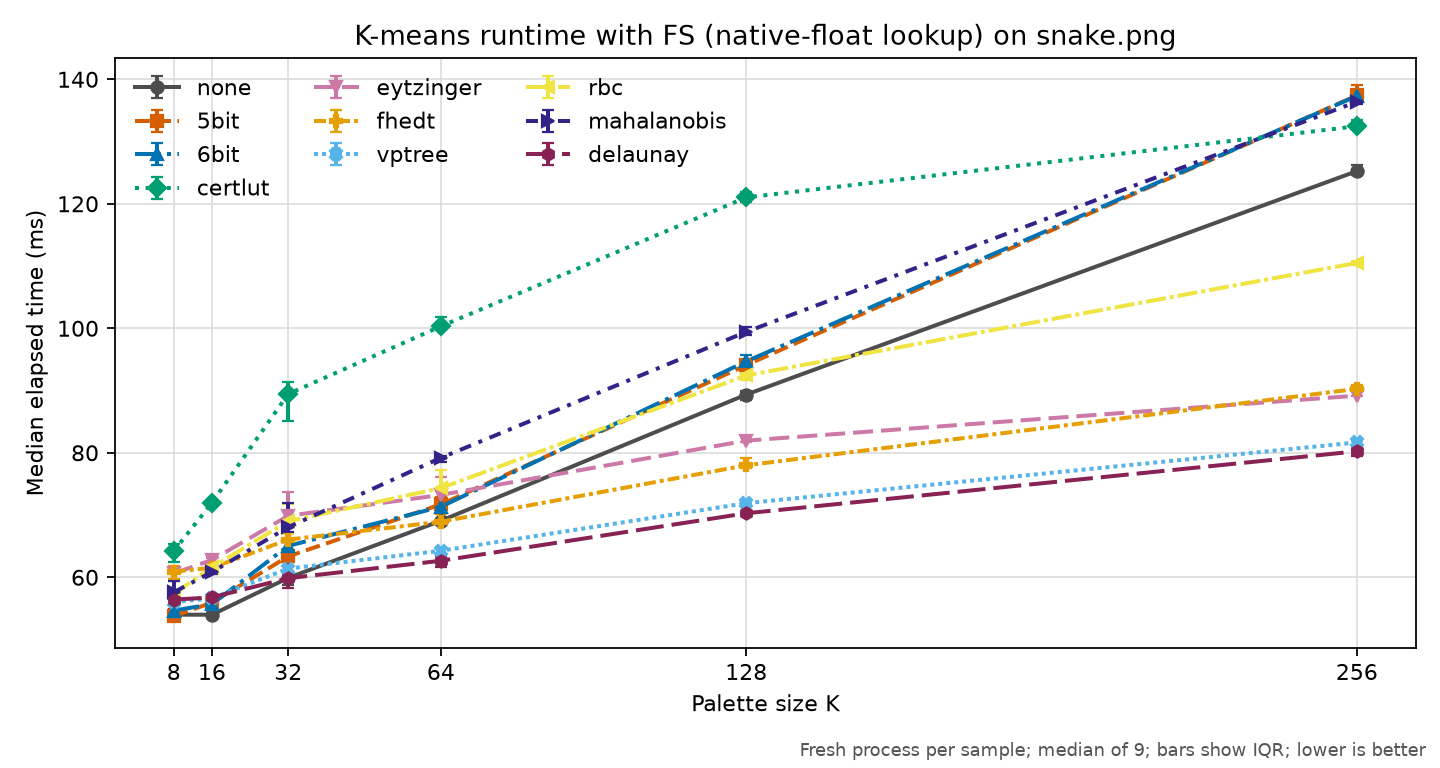
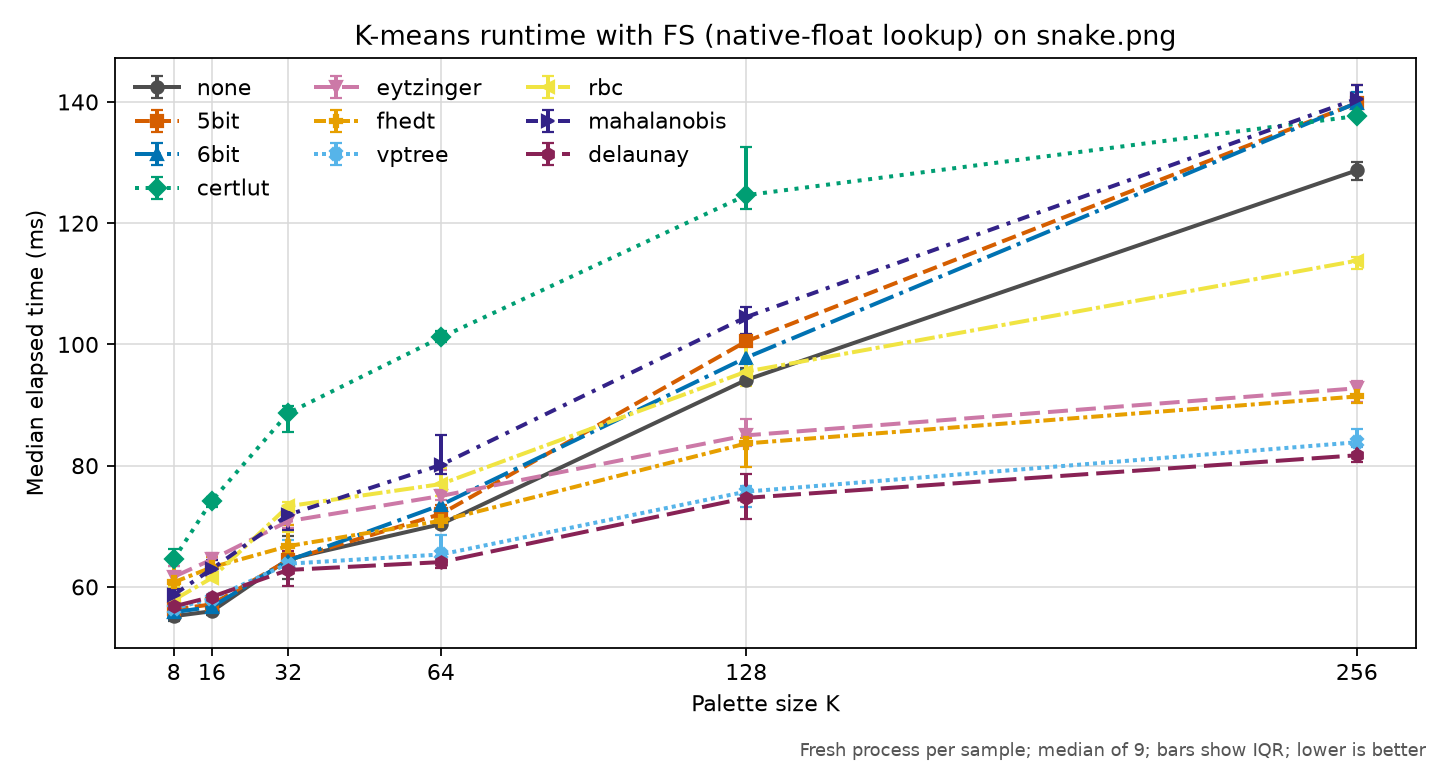
docs: refresh lookup measurements after cold batching

diff --git a/docs/encoder/palette-application/lookup-policy/measurements/README.md b/docs/encoder/palette-application/lookup-policy/measurements/README.md
@@ -22,7 +22,7 @@ The ten-policy sweeps resolve to planner `work=rgb888`, but their actual lookup 
 
 ## Conditions
 
-The ten-policy quality and single-thread speed sweeps were measured on 2026-10-22 JST from tracked-clean revision `5b1da5b55c55fb450bd4548a87579140bae893b8`. The host was an Apple M3 Max with 36 GiB RAM, macOS 27.0.1 arm64, and Apple Clang 21.0.0. Autotools used `CFLAGS=-O3`, libpng, and LCMS2; the manifests retain the complete configuration and executable hashes. The input was [`images/snake.png`](../../../../../images/snake.png), at 600 by 450 pixels. The broad curves use `K = 8, 16, 32, 64, 128, 256`; both focused curves use steps of 16 from 128 through 256.
+The ten-policy quality and single-thread speed sweeps were measured on 2026-10-22 JST from tracked-clean revision `26a31afef67dbbdd9b45d2b0f115ba099b51bdb6`. The host was an Apple M3 Max with 36 GiB RAM, macOS 27.0.1 arm64, and Apple Clang 21.0.0. Autotools used `CFLAGS=-O3`, libpng, and LCMS2; the manifests retain the complete configuration and executable hashes. The input was [`images/snake.png`](../../../../../images/snake.png), at 600 by 450 pixels. The broad curves use `K = 8, 16, 32, 64, 128, 256`; both focused curves use steps of 16 from 128 through 256.
 
 The shared-instance and Metal artifacts retain their 2026-09-06 revision `f2c138d8f` and macOS 26.5.1 conditions. Their sections describe the historical evidence and its limits. The four-policy Delaunay study has its own snapshot and protocol below. Compare times within each study; do not splice their samples into the ten-policy curves.
 
@@ -87,6 +87,8 @@ img2sixel \
 ```
 
 `lsqa` compares each SIXEL stream with the original image and reports its existing `Δ E00_mean`, `Δ Chroma_mean`, and MS-SSIM metrics. The runner removes inherited `SIXEL_*` variables from both programs, then sets `SIXEL_LOADER_CMS_ENGINE=none` for both. Encoder input is pinned to `libpng`; assessment settings stay identical across policies. The K-means seed is one, and the diffusion control changes only `none` to `fs`.
+
+The recorded build leaves `FLOAT_LOOKUP_CFLAGS` empty. Delaunay's byte cold batches use NEON, while its native-float K-means sweep retains scalar misses under the [float SIMD gate](../delaunay.md#method); this sweep does not measure the optional float batch kernel.
 
 Untimed probes at `K = 256` check all ten consumer classes for K-means with both diffusion settings and for Heckbert without diffusion. The manifests retain these probes. In this build, the K-means `5bit` and `6bit` measurements exercise their native-float exhaustive fallbacks; only the Heckbert quality curves exercise their byte-addressed caches. `-Wgamma` selects gamma-RGB application coordinates without forcing a byte palette.
 
@@ -191,7 +193,7 @@ At `K = 256`, `eytzinger` and `vptree` have mean Delta E00 values of 2.068099 an
 
 ### End-to-end speed
 
-The speed figure compares native-float K-means lookup, including palette construction and SIXEL encoding. Delaunay and VP-tree have nearly equal medians at `K = 256`.
+The speed figure compares native-float K-means lookup, including palette construction and SIXEL encoding. Delaunay and VP-tree are compared under the same conditions at each palette size.
 
 ![Median end-to-end runtime for each lookup policy with native-float K-means](lookup-policy-speed.png)
 
@@ -201,20 +203,20 @@ At `K = 256`, the result is:
 
 | Policy | Median time | Speedup over `none` |
 | --- | ---: | ---: |
-| `none` | 119.2 ms | 1.00x |
-| `5bit` | 127.9 ms | 0.93x |
-| `6bit` | 128.4 ms | 0.93x |
-| `certlut` | 100.4 ms | 1.19x |
-| `eytzinger` | 74.6 ms | 1.60x |
-| `fhedt` | 70.8 ms | 1.68x |
-| `vptree` | 65.9 ms | 1.81x |
-| `rbc` | 99.5 ms | 1.20x |
-| `mahalanobis` | 128.0 ms | 0.93x |
-| `delaunay` | 65.9 ms | 1.81x |
+| `none` | 122.0 ms | 1.00x |
+| `5bit` | 131.3 ms | 0.93x |
+| `6bit` | 131.8 ms | 0.93x |
+| `certlut` | 102.9 ms | 1.19x |
+| `eytzinger` | 77.3 ms | 1.58x |
+| `fhedt` | 74.0 ms | 1.65x |
+| `vptree` | 68.7 ms | 1.77x |
+| `rbc` | 102.7 ms | 1.19x |
+| `mahalanobis` | 131.4 ms | 0.93x |
+| `delaunay` | 68.7 ms | 1.78x |
 
-Delaunay and VP-tree each take about 65.9 ms, compared with 119.2 ms for `none`; their interquartile ranges overlap. Native-float `5bit` and `6bit` take about 128 ms and do not show a byte-cache speed advantage. Their byte performance belongs to the separate representation-controlled Delaunay study below.
+Delaunay takes 68.7 ms and VP-tree 68.7 ms, compared with 122.0 ms for `none`. Native-float `5bit` and `6bit` take 131.3 and 131.8 ms and do not show a byte-cache speed advantage. The error bars describe variation within this run; the table does not establish a stable ordering of close medians.
 
-In this run, `fhedt` takes 70.8 ms while VP-tree and Delaunay are faster and match the direct quality scores. This does not establish a portable ranking. Preparation, queries, palette construction, loading, and SIXEL output all contribute to elapsed time; a component benchmark is needed to assign the differences to a particular stage.
+In this run, `fhedt` takes 74.0 ms. VP-tree and Delaunay match the direct quality scores; their elapsed times are listed separately above. This does not establish a portable ranking. Preparation, queries, palette construction, loading, and SIXEL output all contribute to elapsed time; a component benchmark is needed to assign the differences to a particular stage.
 
 ### Shared-instance performance
 
@@ -290,24 +292,26 @@ The timing data are in [`lookup-policy-fs-speed.csv`](lookup-policy-fs-speed.csv
 
 | Policy | No-diffusion median | FS median | FS median change |
 | --- | ---: | ---: | ---: |
-| `none` | 119.2 ms | 125.2 ms | +5.1% |
-| `5bit` | 127.9 ms | 137.4 ms | +7.4% |
-| `6bit` | 128.4 ms | 137.3 ms | +7.0% |
-| `certlut` | 100.4 ms | 132.4 ms | +31.9% |
-| `eytzinger` | 74.6 ms | 89.2 ms | +19.5% |
-| `fhedt` | 70.8 ms | 90.3 ms | +27.4% |
-| `vptree` | 65.9 ms | 81.7 ms | +24.0% |
-| `rbc` | 99.5 ms | 110.5 ms | +11.0% |
-| `mahalanobis` | 128.0 ms | 136.4 ms | +6.5% |
-| `delaunay` | 65.9 ms | 80.2 ms | +21.8% |
+| `none` | 122.0 ms | 128.7 ms | +5.5% |
+| `5bit` | 131.3 ms | 139.8 ms | +6.5% |
+| `6bit` | 131.8 ms | 139.8 ms | +6.1% |
+| `certlut` | 102.9 ms | 137.7 ms | +33.7% |
+| `eytzinger` | 77.3 ms | 92.8 ms | +20.0% |
+| `fhedt` | 74.0 ms | 91.4 ms | +23.6% |
+| `vptree` | 68.7 ms | 83.9 ms | +22.0% |
+| `rbc` | 102.7 ms | 113.8 ms | +10.8% |
+| `mahalanobis` | 131.4 ms | 140.5 ms | +6.9% |
+| `delaunay` | 68.7 ms | 81.7 ms | +19.0% |
 
-Delaunay takes 80.2 ms and VP-tree 81.7 ms at this point, with matching reported quality scores. These results include diffusion arithmetic, changed query colors, and SIXEL encoding. They do not isolate nearest-neighbor query cost or establish a constant additive diffusion overhead. The median increase is largest for `certlut` in this run, but the table cannot attribute it to one component.
+Delaunay takes 81.7 ms and VP-tree 83.9 ms at this point, with matching reported quality scores. These results include diffusion arithmetic, changed query colors, and SIXEL encoding. They do not isolate nearest-neighbor query cost or establish a constant additive diffusion overhead. The median percentage increase is largest for `certlut` in this run, but the table cannot attribute it to one component.
 
 ### Delaunay: byte and native-float comparison
 
 This study compares [`delaunay`](../delaunay.md), `vptree`, `5bit`, and `6bit` at `K = 32, 64, 128, 256`, with both `fs` and `none` diffusion. It uses [`snake.png`](../../../../../images/snake.png) and [`egret.jpg`](../../../../../images/egret.jpg) at 600 by 450 pixels, plus [`vimperator3.png`](../../../../../images/vimperator3.png) at 582 by 746 pixels. Egret is converted once to an 8-bit RGB PNG before timing so every input uses the same `libpng` loader. There are 192 timed configurations and 48 paired Delaunay/VP-tree output checks.
 
-The run was recorded on 2026-10-22 JST on an Apple M3 Max with 36 GiB RAM, macOS 27.0.1 arm64, and Apple Clang 21.0.0. The implementation is identified by clean local measurement snapshot `d1acd91280d9e97247aaf6f2f96abe7b8e60345b`, based on repository revision `50bcca8f391b71bea52a7cf85d5174432720a104`. The snapshot contains the Delaunay implementation under evaluation; its ID identifies a local measurement commit, not a published release or branch. The [manifest](lookup-policy-delaunay-run.json) records its tree ID, compiler and configure arguments, input and executable/library hashes, effective lookup classes, all timing samples, and paired output hashes. Autotools used `CFLAGS=-O3` with the project's C99 flag. Byte lookup used NEON; `FLOAT_LOOKUP_CFLAGS` was empty, so float lookup retained native scalar arithmetic under the existing [SIMD gate](../delaunay.md#method).
+The run was recorded on 2026-10-22 JST on an Apple M3 Max with 36 GiB RAM, macOS 27.0.1 arm64, and Apple Clang 21.0.0. The implementation is identified by clean local measurement snapshot `d1acd91280d9e97247aaf6f2f96abe7b8e60345b`, based on repository revision `50bcca8f391b71bea52a7cf85d5174432720a104`. The snapshot contains the Delaunay implementation under evaluation; its ID identifies a local measurement commit, not a published release or branch. The [manifest](lookup-policy-delaunay-run.json) records its tree ID, compiler and configure arguments, input and executable/library hashes, effective lookup classes, all timing samples, and paired output hashes.
+
+This snapshot predates eight-query cold-miss batching in Delaunay, so its timings characterize the earlier point-walk miss path. Autotools used `CFLAGS=-O3` with the project's C99 flag. Byte lookup used NEON; `FLOAT_LOOKUP_CFLAGS` was empty, so float lookup retained native scalar arithmetic under the existing [SIMD gate](../delaunay.md#method).
 
 Every command uses `--threads=1 --precision=8bit --quality=full --loaders=libpng! --quantize-model=kmeans:seed=1 --merge-policy=ward -Wgamma --gpu-policy=off`. The byte matrix adds `--cms-engine=none`; the float matrix keeps default CMS and adds `-Xoklab`. All inherited `SIXEL_*` variables are removed. An untimed `LSXLUT2|phase=palette-apply` trace confirms `lookup/POLICY.8bit` or `lookup/POLICY.float32` for each configuration. CMS and clustering differ between the two matrices, so comparisons are within each representation, not an estimate of the cost of changing representation alone.
 
